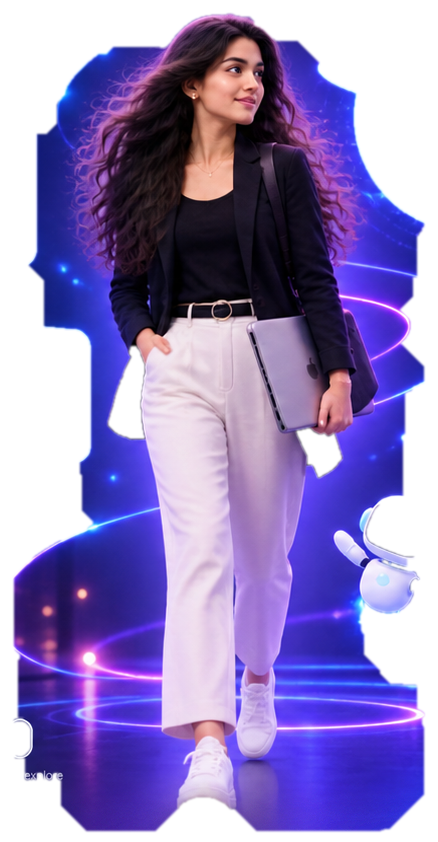
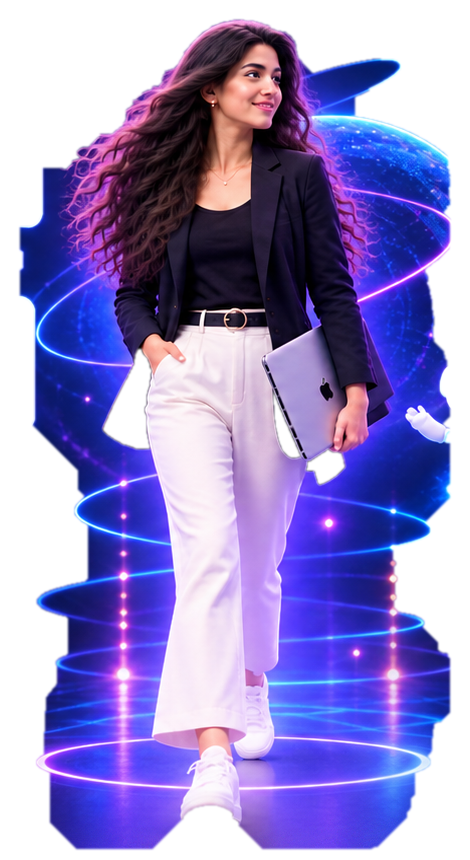
Add files via upload
Add animated futuristic hero

diff --git a/style.css b/style.css
@@ -32,18 +32,33 @@ footer{max-width:1180px;margin:auto;padding:30px 28px 45px;border-top:1px solid 
 @media(max-width:800px){.nav-links,.nav-cta{display:none}.menu-btn{display:block}.navbar{padding:0 20px}.nav-links.open{display:flex;position:absolute;top:78px;left:0;right:0;background:#0a0b10;flex-direction:column;padding:20px 28px;border-bottom:1px solid var(--line)}.hero{grid-template-columns:1fr;padding-top:50px}.hero-visual{height:380px}.about-grid{grid-template-columns:1fr;gap:30px}.skills-grid{grid-template-columns:1fr 1fr}.projects-grid{grid-template-columns:1fr}.section{padding:85px 20px}.section-heading{display:block}.section-heading p{margin-top:15px}.timeline-item{grid-template-columns:1fr;gap:10px}.cert-grid{grid-template-columns:1fr}.contact-box{padding:45px 20px}.mini-stats{gap:25px}.education-card{gap:20px;align-items:flex-start}.education-card>strong{font-size:20px;white-space:nowrap}footer{padding:25px 20px;gap:15px;flex-direction:column}}
 @media(max-width:480px){.skills-grid{grid-template-columns:1fr}.hero h1{letter-spacing:-2px}.hero-text{font-size:15px}.hero-actions{flex-direction:column;align-items:stretch}.btn{text-align:center}.ai-card{transform:none}.orbit{display:none}}
 
-/* Animated futuristic hero */
-.hero-scene{position:relative;min-height:610px;display:flex;align-items:center;justify-content:center;overflow:visible;perspective:1100px}
-.scene-aura{position:absolute;width:430px;height:430px;border-radius:50%;background:radial-gradient(circle,rgba(111,75,255,.34),rgba(32,190,255,.11) 42%,transparent 72%);filter:blur(16px);animation:auraPulse 4.5s ease-in-out infinite}
-.character-stage{position:relative;width:min(410px,31vw);z-index:4;animation:characterWalk 4.8s ease-in-out infinite;transform-origin:50% 90%}
-.hero-character{display:block;width:100%;height:auto;filter:drop-shadow(0 28px 40px rgba(0,0,0,.35));mix-blend-mode:screen}
-.character-shadow{position:absolute;left:15%;right:15%;bottom:2%;height:22px;border-radius:50%;background:radial-gradient(ellipse,rgba(0,0,0,.7),transparent 70%);filter:blur(5px);animation:shadowPulse 4.8s ease-in-out infinite}
-.holo-ring{position:absolute;border:1px solid rgba(117,91,255,.45);border-radius:50%;z-index:2;pointer-events:none}
-.ring-a{width:410px;height:160px;transform:rotate(-18deg);animation:ringA 14s linear infinite}.ring-b{width:460px;height:250px;transform:rotate(25deg);animation:ringB 18s linear infinite}.ring-c{width:330px;height:330px;border-color:rgba(37,205,255,.22);animation:ringC 20s linear infinite}
-.holo-card{position:absolute;z-index:6;min-width:125px;padding:13px 15px;border:1px solid rgba(142,126,255,.42);border-radius:16px;background:linear-gradient(145deg,rgba(20,19,36,.78),rgba(8,10,20,.62));backdrop-filter:blur(12px);box-shadow:0 18px 50px rgba(36,22,105,.25),inset 0 0 25px rgba(100,70,255,.06);display:flex;flex-direction:column;gap:3px;color:#e9e9f4}.holo-card b{font-size:13px}.holo-card small{font-size:9px;color:#9da1b2}.holo-card .icon{color:#8c74ff;font-size:18px}
-.card-python{left:2%;top:18%;animation:floatA 4.6s ease-in-out infinite}.card-ai{right:0;top:13%;animation:floatB 5.1s .4s ease-in-out infinite}.card-flow{right:-3%;top:53%;animation:floatA 5.6s .8s ease-in-out infinite}.card-data{left:2%;bottom:13%;animation:floatB 4.9s .2s ease-in-out infinite}
-.particle{position:absolute;width:5px;height:5px;border-radius:50%;background:#7c66ff;box-shadow:0 0 14px #7c66ff;z-index:3}.p1{left:12%;top:16%;animation:particle1 5s infinite}.p2{right:18%;top:27%;animation:particle2 6s infinite}.p3{left:20%;bottom:22%;animation:particle3 5.5s infinite}.p4{right:10%;bottom:19%;animation:particle1 7s infinite}.p5{left:47%;top:6%;animation:particle2 4.5s infinite}
-@keyframes characterWalk{0%,100%{transform:translate3d(0,0,0) rotate(-.4deg)}25%{transform:translate3d(-3px,-8px,0) rotate(.25deg)}50%{transform:translate3d(2px,-14px,0) rotate(.7deg)}75%{transform:translate3d(3px,-7px,0) rotate(-.15deg)}}@keyframes shadowPulse{0%,100%{transform:scaleX(1);opacity:.65}50%{transform:scaleX(.82);opacity:.4}}@keyframes auraPulse{0%,100%{transform:scale(.92);opacity:.55}50%{transform:scale(1.08);opacity:1}}@keyframes ringA{to{transform:rotate(342deg)}}@keyframes ringB{to{transform:rotate(-335deg)}}@keyframes ringC{to{transform:rotate(360deg)}}@keyframes floatA{0%,100%{transform:translateY(0) rotate(-1deg)}50%{transform:translateY(-13px) rotate(1deg)}}@keyframes floatB{0%,100%{transform:translateY(0) rotate(1deg)}50%{transform:translateY(10px) rotate(-1deg)}}@keyframes particle1{0%,100%{transform:translate(0,0);opacity:.35}50%{transform:translate(18px,-25px);opacity:1}}@keyframes particle2{0%,100%{transform:translate(0,0);opacity:.4}50%{transform:translate(-20px,18px);opacity:1}}@keyframes particle3{0%,100%{transform:translate(0,0);opacity:.3}50%{transform:translate(10px,-20px);opacity:1}}
-@media(max-width:900px){.hero{grid-template-columns:1fr}.hero-scene{min-height:480px;margin-top:-20px}.character-stage{width:min(430px,72vw)}.holo-card{transform:scale(.88)}}
-@media(max-width:520px){.hero-scene{min-height:390px}.character-stage{width:78vw}.holo-card{min-width:92px;padding:9px 10px}.holo-card b{font-size:10px}.holo-card small{font-size:7px}.card-python{left:-2%;top:12%}.card-ai{right:-2%;top:9%}.card-flow{right:-4%;top:55%}.card-data{left:-2%;bottom:7%}.holo-ring{opacity:.55}}
-@media(prefers-reduced-motion:reduce){.character-stage,.character-shadow,.scene-aura,.holo-ring,.holo-card,.particle{animation:none!important}}
+/* ===== FINAL HERO: clean character + real layered UI ===== */
+.hero-scene{position:relative;min-height:620px;display:flex;align-items:center;justify-content:center;overflow:visible;perspective:1100px}
+.scene-aura{position:absolute;width:480px;height:480px;border-radius:50%;background:radial-gradient(circle,rgba(104,76,255,.30),rgba(27,184,255,.10) 44%,transparent 72%);filter:blur(18px);animation:auraPulse 4.5s ease-in-out infinite}
+.planet{position:absolute;width:285px;height:285px;border-radius:50%;background:radial-gradient(circle at 35% 30%,rgba(55,205,255,.55),rgba(55,90,255,.20) 38%,rgba(14,17,46,.85) 72%,transparent 73%);box-shadow:0 0 80px rgba(70,108,255,.35);opacity:.7;animation:planetPulse 6s ease-in-out infinite}
+.character-stage{position:relative;width:min(390px,31vw);z-index:5;animation:characterStep 4.8s ease-in-out infinite;transform-origin:50% 90%}
+.hero-character{display:block;width:100%;height:auto;filter:drop-shadow(0 28px 38px rgba(0,0,0,.4))}
+.character-shadow{position:absolute;left:14%;right:14%;bottom:1%;height:20px;border-radius:50%;background:radial-gradient(ellipse,rgba(0,0,0,.7),transparent 70%);filter:blur(5px);animation:shadowPulse 4.8s ease-in-out infinite}
+.holo-ring{position:absolute;border:1px solid rgba(126,100,255,.48);border-radius:50%;pointer-events:none;z-index:2}
+.ring-a{width:390px;height:150px;transform:rotate(-18deg);animation:ringA 14s linear infinite}
+.ring-b{width:470px;height:240px;transform:rotate(24deg);animation:ringB 18s linear infinite}
+.ring-c{width:330px;height:330px;border-color:rgba(40,207,255,.25);animation:ringC 20s linear infinite}
+.holo-card{position:absolute;z-index:7;min-width:130px;padding:12px 14px;border:1px solid rgba(139,119,255,.42);border-radius:15px;background:rgba(8,10,20,.72);backdrop-filter:blur(13px);box-shadow:0 18px 45px rgba(25,14,80,.30),inset 0 0 20px rgba(120,80,255,.07);display:flex;flex-direction:column;gap:3px;color:#ececf5}
+.holo-card b{font-size:12px}.holo-card small{font-size:8px;color:#9ca1b4}.holo-card .icon{color:#8b73ff;font-size:17px}
+.card-python{left:2%;top:13%;animation:floatA 4.8s ease-in-out infinite}
+.card-rag{left:-2%;top:45%;animation:floatB 5.4s .4s ease-in-out infinite}
+.card-ai{right:-1%;top:12%;animation:floatB 5.1s .6s ease-in-out infinite}
+.card-flow{right:-4%;top:45%;animation:floatA 5.8s .9s ease-in-out infinite}
+.card-data{right:4%;bottom:8%;animation:floatB 5s .2s ease-in-out infinite}
+.particle{position:absolute;width:5px;height:5px;border-radius:50%;background:#7c66ff;box-shadow:0 0 14px #7c66ff;z-index:3}
+.p1{left:13%;top:16%;animation:particle1 5s infinite}.p2{right:18%;top:25%;animation:particle2 6s infinite}.p3{left:20%;bottom:18%;animation:particle3 5.5s infinite}.p4{right:10%;bottom:20%;animation:particle1 7s infinite}.p5{left:48%;top:7%;animation:particle2 4.5s infinite}
+@keyframes characterStep{0%,100%{transform:translate3d(0,0,0) rotate(-.35deg)}25%{transform:translate3d(-3px,-7px,0) rotate(.2deg)}50%{transform:translate3d(2px,-13px,0) rotate(.55deg)}75%{transform:translate3d(3px,-6px,0) rotate(-.1deg)}}
+@keyframes shadowPulse{0%,100%{transform:scaleX(1);opacity:.62}50%{transform:scaleX(.82);opacity:.38}}
+@keyframes auraPulse{0%,100%{transform:scale(.94);opacity:.55}50%{transform:scale(1.08);opacity:1}}
+@keyframes planetPulse{0%,100%{transform:scale(.97);opacity:.62}50%{transform:scale(1.04);opacity:.85}}
+@keyframes ringA{to{transform:rotate(342deg)}}@keyframes ringB{to{transform:rotate(-336deg)}}@keyframes ringC{to{transform:rotate(360deg)}}
+@keyframes floatA{0%,100%{transform:translateY(0) rotate(-1deg)}50%{transform:translateY(-12px) rotate(1deg)}}@keyframes floatB{0%,100%{transform:translateY(0) rotate(1deg)}50%{transform:translateY(10px) rotate(-1deg)}}
+@keyframes particle1{0%,100%{transform:translate(0,0);opacity:.35}50%{transform:translate(18px,-25px);opacity:1}}@keyframes particle2{0%,100%{transform:translate(0,0);opacity:.4}50%{transform:translate(-20px,18px);opacity:1}}@keyframes particle3{0%,100%{transform:translate(0,0);opacity:.3}50%{transform:translate(10px,-20px);opacity:1}}
+@media(max-width:900px){.hero{grid-template-columns:1fr}.hero-scene{min-height:500px;margin-top:-15px}.character-stage{width:min(410px,70vw)}.holo-card{transform:scale(.9)}}
+@media(max-width:520px){.hero-scene{min-height:400px}.character-stage{width:78vw}.planet{width:220px;height:220px}.holo-card{min-width:92px;padding:9px 10px}.holo-card b{font-size:10px}.holo-card small{font-size:7px}.holo-card .icon{font-size:13px}.ring-a,.ring-b{opacity:.7}}
+@media(prefers-reduced-motion:reduce){.character-stage,.character-shadow,.scene-aura,.planet,.holo-ring,.holo-card,.particle{animation:none!important}}

diff --git a/index.html b/index.html
@@ -50,16 +50,24 @@
 
       <div class="hero-visual hero-scene" aria-label="Animated futuristic developer scene">
         <div class="scene-aura"></div>
-        <div class="holo-ring ring-a"></div><div class="holo-ring ring-b"></div><div class="holo-ring ring-c"></div>
+        <div class="planet"></div>
+        <div class="holo-ring ring-a"></div>
+        <div class="holo-ring ring-b"></div>
+        <div class="holo-ring ring-c"></div>
+
         <div class="character-stage">
           <div class="character-shadow"></div>
-          <img class="hero-character" src="hero-character.png" alt="Futuristic professional developer illustration">
+          <img class="hero-character" src="hero-character.png" alt="Professional futuristic developer illustration">
         </div>
+
         <div class="holo-card card-python"><span class="icon">⌘</span><b>Python</b><small>Build · Analyze · Automate</small></div>
-        <div class="holo-card card-ai"><span class="icon">✦</span><b>AI / ML</b><small>RAG · LLMs · Insights</small></div>
+        <div class="holo-card card-rag"><span class="icon">◈</span><b>RAG Systems</b><small>Retrieve · Augment · Generate</small></div>
+        <div class="holo-card card-ai"><span class="icon">✦</span><b>AI / ML</b><small>LLMs · Insights · Models</small></div>
         <div class="holo-card card-flow"><span class="icon">⌘</span><b>Automation</b><small>n8n · APIs · Workflows</small></div>
         <div class="holo-card card-data"><span class="icon">▥</span><b>Data Analytics</b><small>Insights · Visualization</small></div>
-        <div class="particle p1"></div><div class="particle p2"></div><div class="particle p3"></div><div class="particle p4"></div><div class="particle p5"></div>
+
+        <div class="particle p1"></div><div class="particle p2"></div><div class="particle p3"></div>
+        <div class="particle p4"></div><div class="particle p5"></div>
       </div>
     </section>
 
